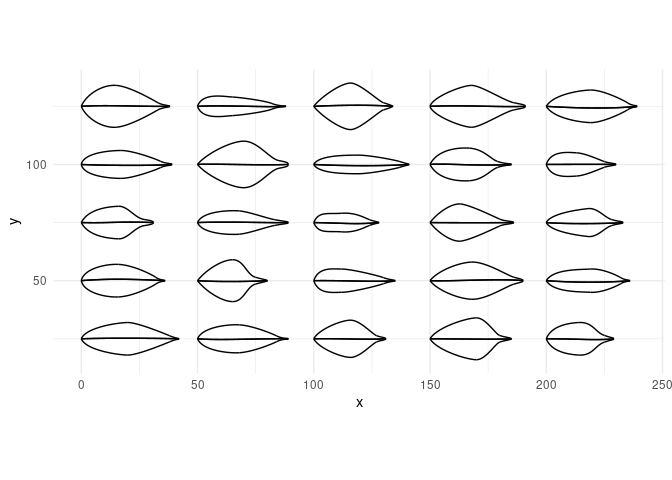
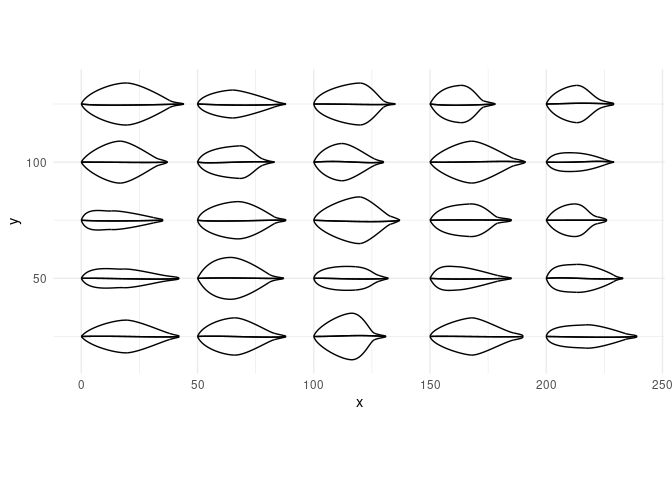
update readme to new design

diff --git a/README.md b/README.md
@@ -57,15 +57,15 @@ df
 #>    i         x     y
 #>    <chr> <dbl> <dbl>
 #>  1 1        10  40  
-#>  2 1        12  34  
-#>  3 1        19  31.3
+#>  2 1        12  35  
+#>  3 1        18  30.8
 #>  4 1        24  31  
 #>  5 2        24  31  
-#>  6 2        29  30.7
-#>  7 2        34  37.8
+#>  6 2        30  31.2
+#>  7 2        34  37.3
 #>  8 2        36  38.4
 #>  9 3        36  38.4
-#> 10 3        38  38.9
+#> 10 3        38  39.4
 #> # … with 22 more rows
 ```
 
@@ -125,7 +125,7 @@ dfb <- expand_grid(
     y = seq(25, 125, 25)
 ) %>%
   transpose() %>%
-  map_dfr(~benjamini_leaf(gen_benjamini_points(.x$x, .x$y)), .id = "leaf") %>%
+  map_dfr(~benjamini_leaf(gen_leaf_parameters(.x$x, .x$y)), .id = "leaf") %>%
   unite(i, i, leaf)
 
 ggplot(dfb) +
